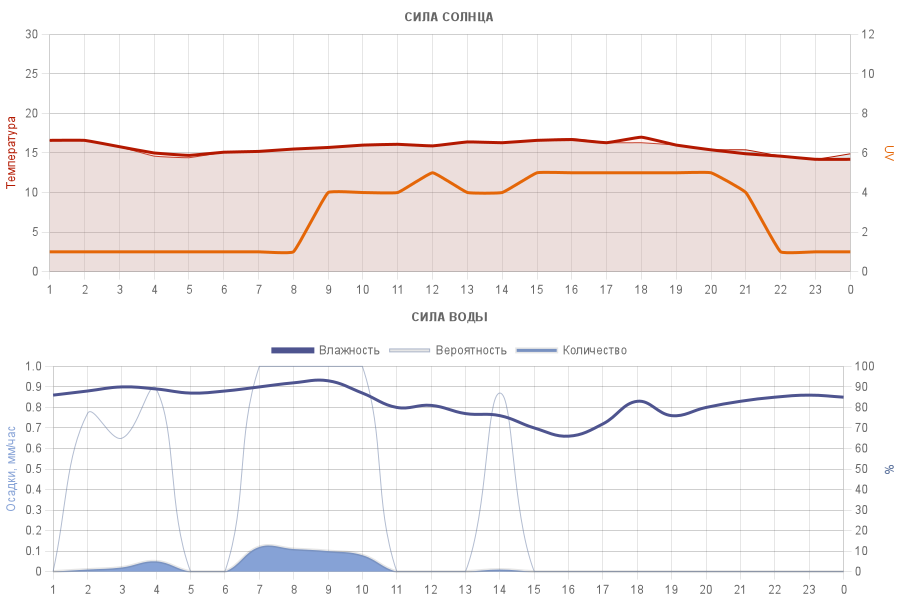
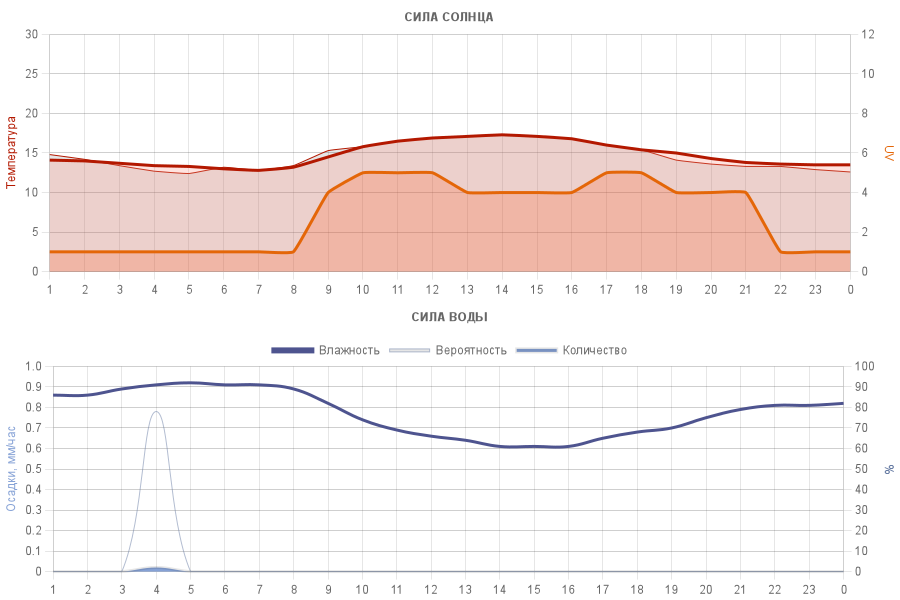
colors

diff --git a/jisao-functions.js b/jisao-functions.js
@@ -676,9 +676,10 @@ async function getDayChart(filename, inputData = {}) {
 
   const colors = {
     uv: "rgb(228, 102, 8)",
+    uvBack:"#FF450030",
     precip: "rgb(134, 162, 214)",
     darkPrecip: "rgb(102, 123, 163)",
-    temperatureFill: "#ffc8bf40",
+    temperatureFill: "#ff918040",
     temperature: "#b31800",
     darkPrecipChance: "rgba(102, 123, 163, 0.5)",
     humidity: "#4e548f",
@@ -690,8 +691,9 @@ async function getDayChart(filename, inputData = {}) {
         type: "line",
         label: "",
         data: inputData.uv,
-        fill: false,
+        //fill: false,
         borderColor: colors.uv,
+        backgroundColor: colors.uvBack,
         tension: 0.1,
         pointRadius: 0,
         yAxisID: "yr",
